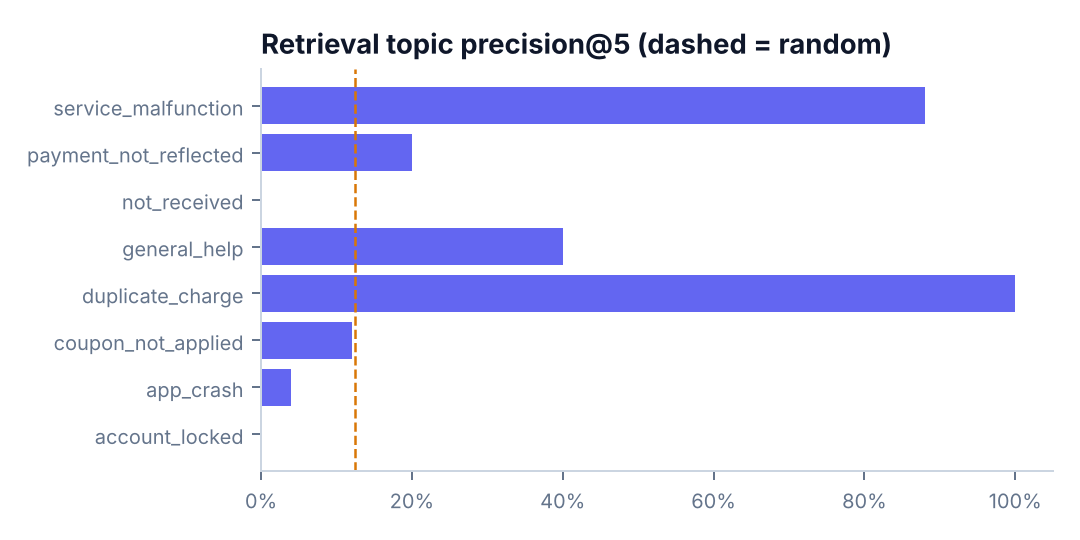
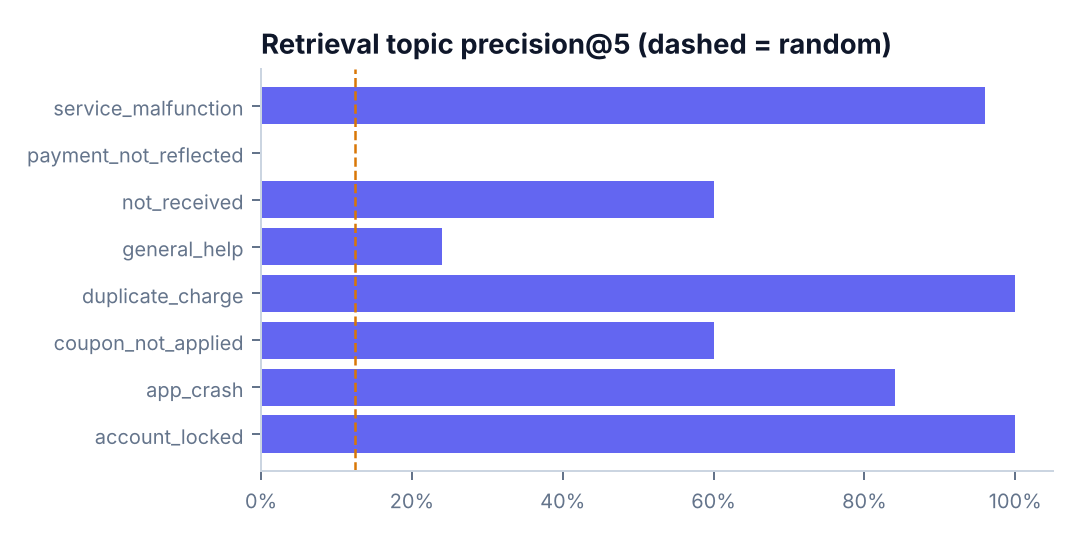
Retrieval: rebuild with all-MiniLM-L6-v2 and update evaluation
Hugging Face became reachable, so the index now uses sentence-transformers
(384 dims, no fallback). On the 36 paraphrased queries topic P@5 rose from
36.7% (LSA) to 61.7%, exact P@5 32.8% -> 58.3%, MRR 0.374 -> 0.718; two
topics regressed (general help, paid-but-not-delivered). Docs and reports
updated; LSA remains the documented fallback.

Claude-Session: https://claude.ai/code/session_019SpSd1MMjmDUMLzErGWn8Y

Changed region(s): [[0.2444, 0.5926, 0.9472, 0.8593], [0.2444, 0.237, 0.6722, 0.5037], [0.8556, 0.1481, 0.9167, 0.237]]

diff --git a/conversation-intelligence-copilot/backend/scripts/generate_report.py b/conversation-intelligence-copilot/backend/scripts/generate_report.py
@@ -282,7 +282,7 @@ def docx_report(d: dict, figs: dict[str, Path]) -> Path:
     rt = e["retrieval"]
     bullets([
         f"Knowledge retrieval: conversation-aware chunks (4 turns, overlap 2), FAISS with metadata filters, one passage per conversation, evidence with message IDs and CSV lines. "
-        f"On {rt['queries']} paraphrased queries: topic precision@5 {rt['topic_precision@5']:.1%} vs {rt['random_baseline_topic_precision']:.1%} random (LSA fallback; MiniLM could not be downloaded).",
+        f"On {rt['queries']} paraphrased queries: topic precision@5 {rt['topic_precision@5']:.1%} vs {rt['random_baseline_topic_precision']:.1%} random with {rt['embedding_backend']} (36.7% with the LSA fallback used when the model is unavailable).",
         "Specialised LLM agent: Gemini classification of unique masked texts (sentiment, act, empathy, resolution, topic, product) in bounded, resumable batches with "
         "a content-hash cache and honest coverage reporting; scripted-SDK tested; not run live (credential blocked).",
         "Memory: session store of resolved intent, scope, plan and deterministic references; follow-ups such as 'compare the top two', 'previous month', "
@@ -307,7 +307,7 @@ def docx_report(d: dict, figs: dict[str, Path]) -> Path:
         "Live Gemini behaviour (intent, explanations, labels, latency, tokens) is unmeasured.",
         "Sentiment/empathy mappings are developer judgements; human-agreement metrics await labels from the in-app blind review.",
         "The deterministic intent parser is brittle on paraphrases (held-out accuracy above), though most misses fail safe.",
-        "LSA retrieval is weak when queries share no words with the transcripts.",
+        "Retrieval still misses some paraphrases (generic help and paid-but-not-delivered queries regressed with MiniLM); the LSA fallback is much weaker.",
         "Synthetic, templated data: most topic differences are not significant; no cost, churn, CSAT or handle-time data.",
         "No authentication/RBAC; single-node storage; Docker images not built in the sandbox (registry rate limits).",
     ])
@@ -399,7 +399,7 @@ def pdf_report(d: dict, figs: dict[str, Path]) -> Path:
        ["End-to-end QA pass rate", f"{ev['qa_pass_rate']:.0%} ({ev['requests']} requests, {ev['follow_up_requests']} follow-ups)"],
        ["Unsupported refused / supported answered", f"{ev['unsupported_correctly_refused']} / {ev['supported_answered']}"],
        ["Intent (rules) tuning / held-out", f"{it['accuracy']:.0%} / {it['heldout']['accuracy']:.0%}"],
-       ["Retrieval topic P@5 (LSA)", f"{rt['topic_precision@5']:.1%} (random {rt['random_baseline_topic_precision']:.1%})"],
+       [f"Retrieval topic P@5 ({rt['embedding_backend'].split('/')[-1]})", f"{rt['topic_precision@5']:.1%} (random {rt['random_baseline_topic_precision']:.1%})"],
        ["Latency p50 / p95 (deterministic)", f"{ev['latency_p50_ms']:.0f} / {ev['latency_p95_ms']:.0f} ms"],
        ["Gemini", f"not reachable: {str(e['model'].get('reason'))[:90]}"]], [6 * cm, W - 6 * cm])
 
@@ -486,7 +486,7 @@ def pdf_report(d: dict, figs: dict[str, Path]) -> Path:
        ["Reference 'the first one' unresolved after a turn without ranking", "Use most recent ranking, with a note"],
        ["'Which agents should be fired?' routed to coaching", "Personnel decisions refused"],
        ["Coaching crash when no resolution is assessable", "Nullable float handling"], ["Cancellation recorded as failure", "Recorded as cancelled"]], [9 * cm, W - 9 * cm])
-    P("Trade-offs: registered operations over text-to-SQL (safe, exact; less open-ended); deterministic defaults (reproducible; brittle intent on paraphrases); LSA fallback (offline; weak semantics); "
+    P("Trade-offs: registered operations over text-to-SQL (safe, exact; less open-ended); deterministic defaults (reproducible; brittle intent on paraphrases); MiniLM embeddings with an LSA fallback (better semantics, needs a model download; fallback works offline but is weak); "
       "in-process stores (zero infrastructure; single node).")
 
     story.append(Paragraph("12. Deployment and production roadmap", h1))

diff --git a/conversation-intelligence-copilot/docs/interview/INTERVIEW_PREP.md b/conversation-intelligence-copilot/docs/interview/INTERVIEW_PREP.md
@@ -13,13 +13,13 @@ In-process, columnar, exact SQL over 42k rows in milliseconds; read-only connect
 1. Closed-enum structured outputs, schema-validated, one repair attempt. 2. IDs from the model re-validated against the DB. 3. Explanations rejected if they contain any number not in the verified results. 4. QA agent checks denominators, ranks, chart-to-table equality and citations on every answer. 5. Memory stores references, not prose.
 
 ## How does retrieval work, and how good is it?
-Conversation-aware chunks → embeddings → exact cosine search in FAISS with metadata pre-filtering → one passage per conversation → evidence with message IDs and CSV lines. With the LSA fallback: topic P@5 36.7% vs 12.5% random on paraphrased queries — good when vocabulary overlaps, poor otherwise. MiniLM or Gemini embeddings are the next step.
+Conversation-aware chunks → embeddings → exact cosine search in FAISS with metadata pre-filtering → one passage per conversation → evidence with message IDs and CSV lines. With MiniLM: topic P@5 61.7% vs 12.5% random on paraphrased queries (36.7% with the offline LSA fallback). MiniLM fixed paraphrases with no shared words but regressed on generic help and payment-not-reflected queries; hybrid lexical + vector scoring is the next step.
 
 ## How are model failures handled?
 Retryable errors (408/429/5xx/timeouts) back off with jitter or Retry-After; permanent errors (401/403) open the circuit immediately; repeated failures open it after a threshold; the request falls back to deterministic intent and explanation; the UI shows "Deterministic mode" with the reason and a retry button.
 
 ## What did evaluation reveal?
-Exact match with an independent oracle; 100% QA on 51 requests; 50% intent accuracy on held-out paraphrases for the rules fallback (mostly safe refusals); a personnel-decision question wrongly routed to coaching (fixed); retrieval weak on paraphrases.
+Exact match with an independent oracle; 100% QA on 51 requests; 50% intent accuracy on held-out paraphrases for the rules fallback (mostly safe refusals); a personnel-decision question wrongly routed to coaching (fixed); retrieval topic P@5 rose from 37% (LSA) to 62% with MiniLM.
 
 ## What about the data itself?
 It is synthetic and templated: 426 unique texts; customer follow-ups and agent closing actions are drawn independently of the issue; timestamps are shuffled within conversations; ~1 agent per conversation. The app reports these properties instead of manufacturing insight: significance tests, sample-size gates, misfit rates flagged as a generator property.
@@ -28,4 +28,4 @@ It is synthetic and templated: 426 unique texts; customer follow-ups and agent c
 Managed Postgres/warehouse + vector DB (pgvector/managed), job queue for labelling, SSO/RBAC/tenant isolation, secret manager, centralised tracing (LangSmith/OpenTelemetry), CI/CD with evaluation gates, model and prompt A/B with human-labelled sets, data retention policies, horizontal API scaling (the graph is stateless per request apart from SQLite stores, which would move to a shared DB).
 
 ## Trade-offs to own
-Rules parser brittle without the model; developer-defined sentiment mapping not independently validated; LSA embeddings; single-node storage; Docker images not built in the sandbox.
+Rules parser brittle without the model; developer-defined sentiment mapping not independently validated; LSA fallback when the embedding model is unavailable; single-node storage; Docker images not built in the sandbox.

diff --git a/conversation-intelligence-copilot/EVALUATION.md b/conversation-intelligence-copilot/EVALUATION.md
@@ -25,17 +25,30 @@ All figures below come from runs in this repository. The machine-generated repor
 | End-to-end QA pass rate (51 requests) | 100% (all 11 checks at 100%) |
 | Unsupported questions refused | 6/6 |
 | Follow-up routing (11) | 100% |
-| Retrieval topic precision@5 | 36.7% (random baseline 12.5%) |
-| Retrieval exact (topic+product) P@5 / hit-rate@5 / MRR@5 | 32.8% / 50.0% / 0.374 |
+| Retrieval topic precision@5 (MiniLM) | **61.7%** (LSA fallback 36.7%; random baseline 12.5%) |
+| Retrieval exact (topic+product) P@5 / hit-rate@5 / MRR@5 | 58.3% / 80.6% / 0.718 (LSA: 32.8% / 50.0% / 0.374) |
 | Retrieval duplicate rate | 0% |
-| Retrieval latency p50 / p95 | 18.5 / 20.7 ms (LSA + FAISS, local CPU) |
+| Retrieval latency p50 / p95 | 35.4 / 61.8 ms MiniLM (LSA 18.5 / 20.7 ms), FAISS, local CPU |
 | Lexicon fallback vs template labels (21,639 messages) | accuracy 78.1%, Cohen's κ 0.669 |
-| End-to-end latency p50 / p95 | 159 / 602 ms (deterministic mode, local) |
+| End-to-end latency p50 / p95 | 167 / 776 ms (deterministic mode, MiniLM retrieval, local) |
 | Automated tests | backend 97 (65 unit, 32 integration) · frontend Vitest 8 · Playwright E2E 10 — all passing |
 
 ### Retrieval by topic
 
-Strong where the paraphrase shares vocabulary with the template (duplicate charge 100% topic P@5, feature not working 92%), near zero where it does not ("cannot sign in, my profile is blocked" → account locked 0%; "application keeps closing" → app crash 4%). This is the expected weakness of the LSA fallback; pretrained sentence embeddings were the intended backend but could not be downloaded in the build environment.
+The index was first built with the LSA fallback (Hugging Face was blocked at the time), then rebuilt with `sentence-transformers/all-MiniLM-L6-v2` once network access allowed the download; both runs use the same 36 queries.
+
+| Topic | LSA topic P@5 | MiniLM topic P@5 |
+|---|---|---|
+| account_locked | 0.00 | 1.00 |
+| app_crash | 0.04 | 0.84 |
+| coupon_not_applied | 0.12 | 0.60 |
+| duplicate_charge | 1.00 | 1.00 |
+| general_help | 0.40 | 0.24 |
+| not_received | 0.00 | 0.60 |
+| payment_not_reflected | 0.20 | 0.00 |
+| service_malfunction | 0.88 | 0.96 |
+
+MiniLM fixes the paraphrases with no shared vocabulary ("cannot sign in, my profile is blocked" → account locked), but two topics got worse: generic help questions and "payment went through but X was never activated", which now retrieves other issue types. Hybrid lexical + vector scoring is the next improvement. When the model cannot be loaded, `EMBEDDING_BACKEND=auto` still falls back to LSA and records why.
 
 ## 3. Classification evaluation — what can and cannot be claimed
 

diff --git a/conversation-intelligence-copilot/docs/IMPLEMENTATION_MATRIX.md b/conversation-intelligence-copilot/docs/IMPLEMENTATION_MATRIX.md
@@ -15,7 +15,7 @@ Status vocabulary: **Implemented and verified** (code integrated, reachable, tes
 | Gemini adapter (structured output, repair, rate limit, retries, circuit, cache, tokens/cost) | Implemented but not fully verified | `llm/*` | scripted-SDK tests | Live API never reached (key blocked) |
 | Gemini intent and grounded explanation | Implemented but not fully verified | `intent_agent.py`, `nodes.explanation` | scripted tests incl. grounding rejection | Not run live |
 | Resumable Gemini batch labelling + coverage | Implemented but not fully verified | `gemini_labeler.py`, `make label` | partial-coverage pipeline test | Not run live |
-| Knowledge retrieval (FAISS, filters, evidence) | Implemented and verified | `retrieval/*`, Explorer semantic search | API + eval | LSA fallback; MiniLM not downloadable here |
+| Knowledge retrieval (FAISS, filters, evidence) | Implemented and verified | `retrieval/*`, Explorer semantic search | API + eval | Two topics weaker with MiniLM; LSA used when the model is unavailable |
 | Session memory and follow-ups | Implemented and verified | `memory/store.py` | memory/graph/E2E | No cross-session memory |
 | QA agent and numeric grounding | Implemented and verified | `qa_agent.py`, `grounding.py` | graph + eval | Grounding checks numbers, not wording |
 | Governance (PII, injection flags, safeguards, audit) | Implemented and verified | Governance page | security tests | No auth/RBAC |
@@ -26,7 +26,7 @@ Status vocabulary: **Implemented and verified** (code integrated, reachable, tes
 | Synthetic / combined dataset modes | Implemented and verified | header selector (when enabled) | supervisor/API tests | Demo data only |
 | Docker Compose packaging | Implemented but not fully verified | Dockerfiles, compose | — | Image build blocked by registry rate limits in sandbox |
 | CI (pytest, typecheck, Vitest, build) | Implemented but not fully verified | `.github/workflows/cic-ci.yml` | — | Runs on the next PR |
-| Sentence-Transformers embeddings | Partial | adapter + optional extra | — | Weights could not be downloaded here |
+| Sentence-Transformers embeddings | Implemented and verified | `all-MiniLM-L6-v2`, index manifest | retrieval evaluation | Optional extra; needs Hugging Face on first run |
 | LangSmith tracing | Partial | `ENABLE_LANGSMITH` sets env for LangGraph | — | Requires a LangSmith key; not exercised |
 | Authentication / RBAC / multi-tenancy | Not implemented | — | — | See SECURITY.md |
 | Image generation for answers | Not implemented (deliberate) | — | — | Charts and real screenshots only; no decorative images |

diff --git a/conversation-intelligence-copilot/docs/evaluation/EVALUATION_RESULTS.md b/conversation-intelligence-copilot/docs/evaluation/EVALUATION_RESULTS.md
@@ -1,4 +1,4 @@
-# Evaluation results (generated 2026-10-22T16:25:07+00:00)
+# Evaluation results (generated 2026-10-22T17:18:54+00:00)
 
 Generated by `backend/scripts/evaluate.py` on the real dataset. Do not edit by hand.
 
@@ -14,9 +14,9 @@ Model status during the run: `deterministic` — GEMINI_API_KEY is not set
 | QA pass rate (end to end) | 100% | 51 requests |
 | Follow-up routing | 100% | 11 follow-ups |
 | Unsupported refused | 6/6 | no fabricated answers |
-| Retrieval topic P@5 | 37% | random baseline 12% |
-| Retrieval exact P@5 | 33% | topic + product |
-| Latency p50 / p95 | 159 / 602 ms | deterministic mode, local |
+| Retrieval topic P@5 | 62% | random baseline 12% |
+| Retrieval exact P@5 | 58% | topic + product |
+| Latency p50 / p95 | 167 / 776 ms | deterministic mode, local |
 
 ## 1. Q1 numbers vs an independent oracle
 
@@ -88,22 +88,22 @@ Gemini labels: `{'status': 'not_run', 'reason': 'GEMINI_API_KEY is not set'}`
 
 ## 4. Retrieval
 
-36 paraphrased queries, backend `lsa-tfidf-svd192`.
+36 paraphrased queries, backend `sentence-transformers/all-MiniLM-L6-v2`.
 
-* Topic precision@5 **36.7%** (random baseline 12.5%)
-* Exact (topic+product) precision@5 32.8%; hit-rate@5 50.0%; MRR@5 0.374
-* Duplicate rate 0.0%; latency p50 18.5 ms, p95 20.7 ms
+* Topic precision@5 **61.7%** (random baseline 12.5%)
+* Exact (topic+product) precision@5 58.3%; hit-rate@5 80.6%; MRR@5 0.718
+* Duplicate rate 0.0%; latency p50 35.4 ms, p95 61.8 ms
 
 | Topic | topic P@5 | exact P@5 |
 |---|---|---|
-| account_locked | 0.0 | 0.0 |
-| app_crash | 0.04 | 0.04 |
-| coupon_not_applied | 0.12 | 0.12 |
-| duplicate_charge | 1.0 | 0.8 |
-| general_help | 0.4 | 0.32 |
-| not_received | 0.0 | 0.0 |
-| payment_not_reflected | 0.2 | 0.2 |
-| service_malfunction | 0.88 | 0.88 |
+| account_locked | 1.0 | 1.0 |
+| app_crash | 0.84 | 0.84 |
+| coupon_not_applied | 0.6 | 0.6 |
+| duplicate_charge | 1.0 | 0.76 |
+| general_help | 0.24 | 0.24 |
+| not_received | 0.6 | 0.6 |
+| payment_not_reflected | 0.0 | 0.0 |
+| service_malfunction | 0.96 | 0.96 |
 
 ## 5. End to end
 
@@ -112,7 +112,7 @@ Gemini labels: `{'status': 'not_run', 'reason': 'GEMINI_API_KEY is not set'}`
 * Unsupported questions refused: 6/6
 * Supported questions answered: 45/45
 * Follow-up routing accuracy: 100.0%
-* Latency p50 159.1 ms, p95 602.4 ms
+* Latency p50 167.0 ms, p95 775.5 ms
 * Model mode counts: `{'deterministic': 51}`
 
 | QA check | pass rate |

diff --git a/conversation-intelligence-copilot/README.md b/conversation-intelligence-copilot/README.md
@@ -112,8 +112,8 @@ Syncora.ai Customer Support Conversation sample (Kaggle), 3,000 synthetic conver
 | End-to-end QA pass rate | 100% of 51 requests (11 checks each) |
 | Unsupported questions refused | 6/6 |
 | Intent (rules fallback) | 100% tuning set · **50% held-out paraphrases** (7/10 misses refused safely) |
-| Retrieval (LSA) topic P@5 | 36.7% vs 12.5% random |
-| Latency (deterministic, local) | p50 159 ms · p95 602 ms |
+| Retrieval topic P@5 | 61.7% with MiniLM (36.7% with the LSA fallback; 12.5% random) |
+| Latency (deterministic, local) | p50 167 ms · p95 776 ms |
 
 Details and limitations: [EVALUATION.md](EVALUATION.md).
 
@@ -129,7 +129,7 @@ curl -s localhost:8000/api/chat -H 'Content-Type: application/json' \
 ## Status and limitations
 
 * **Gemini was not reachable during development** (the provided credential returned `401 API_KEY_SERVICE_BLOCKED`). The adapter, prompts, labelling pipeline and grounding checks are implemented and tested against a scripted SDK, but live behaviour is unverified. Everything shown in the screenshots ran in deterministic mode.
-* Sentence-Transformers weights could not be downloaded (Hugging Face blocked by network policy); retrieval used the LSA fallback.
+* Retrieval uses `all-MiniLM-L6-v2` (install with `uv sync --extra transformers`; needs Hugging Face access on first run). Without it the app falls back to local LSA embeddings and records why in the index manifest.
 * Sentiment/empathy mappings are developer judgements; human-agreement metrics need labels from the in-app review panel.
 * No authentication/RBAC (see [SECURITY.md](SECURITY.md)); single-node storage.
 

diff --git a/conversation-intelligence-copilot/ARCHITECTURE.md b/conversation-intelligence-copilot/ARCHITECTURE.md
@@ -211,5 +211,5 @@ sequenceDiagram
 | Registered operations instead of text-to-SQL | No fabricated or unsafe queries; exact, testable numbers | New question types need a new operation |
 | Deterministic labeller as default | The data is templated (426 unique texts), so rules are exact, free and reproducible; Gemini was unavailable during development | The mapping is a developer judgement; validated only by agreement checks and (optionally) human review |
 | Deterministic intent parser as fallback | Works with no key; fails safe to "unsupported" | Brittle on paraphrases (50% on a held-out set) — Gemini is the intended primary path |
-| LSA fallback embeddings | Fully offline, fast (≈20 ms) | Weak on paraphrases with no shared words (topic P@5 37%) |
+| MiniLM embeddings with LSA fallback | MiniLM: topic P@5 62% on paraphrases; LSA keeps retrieval working fully offline | MiniLM needs a model download and is slower (≈35 ms vs 20 ms); LSA is weak on paraphrases (37%) |
 | DuckDB + SQLite + FAISS in-process | Zero infrastructure, reproducible | Single-node; see production notes in README |
